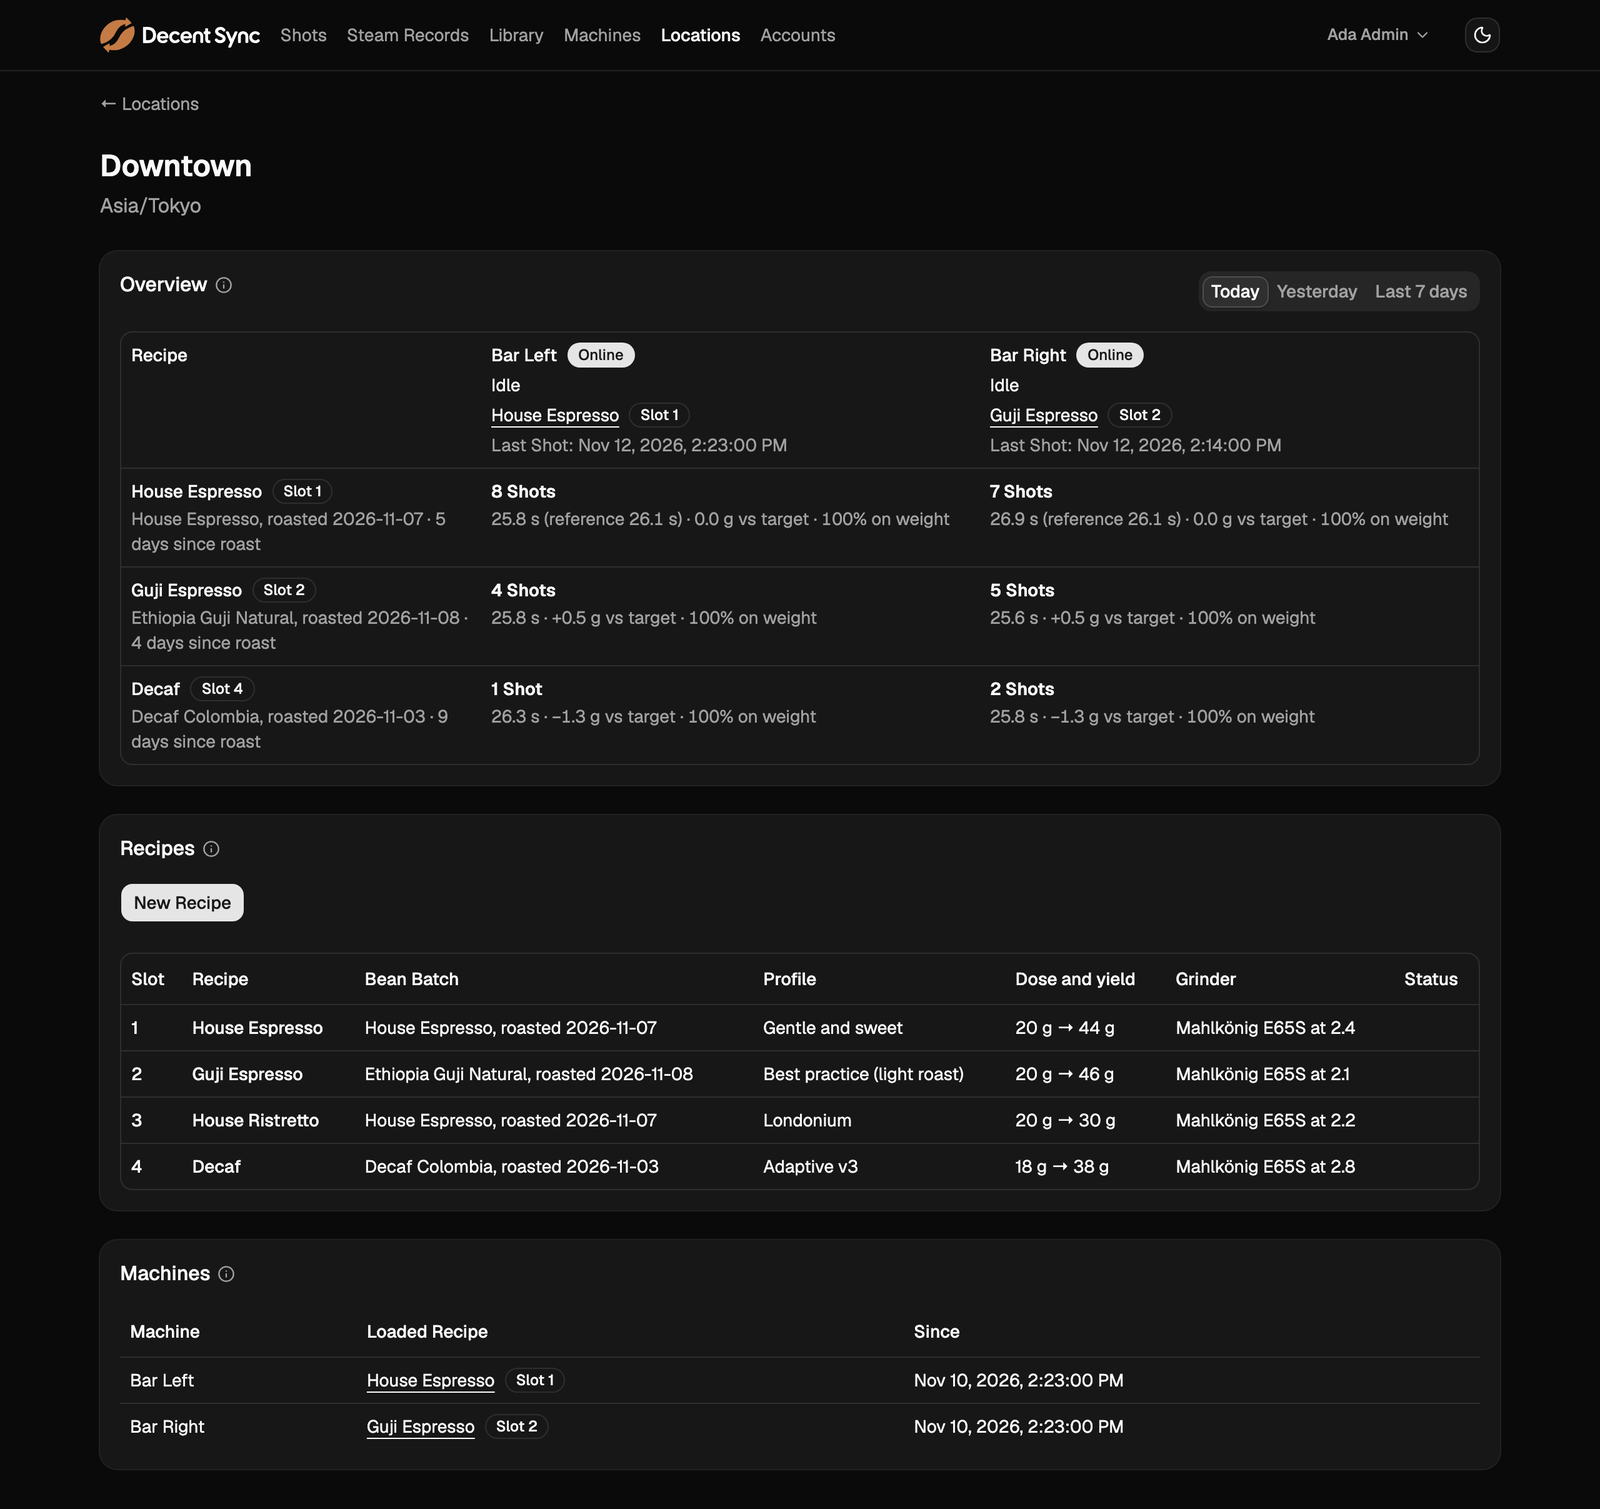
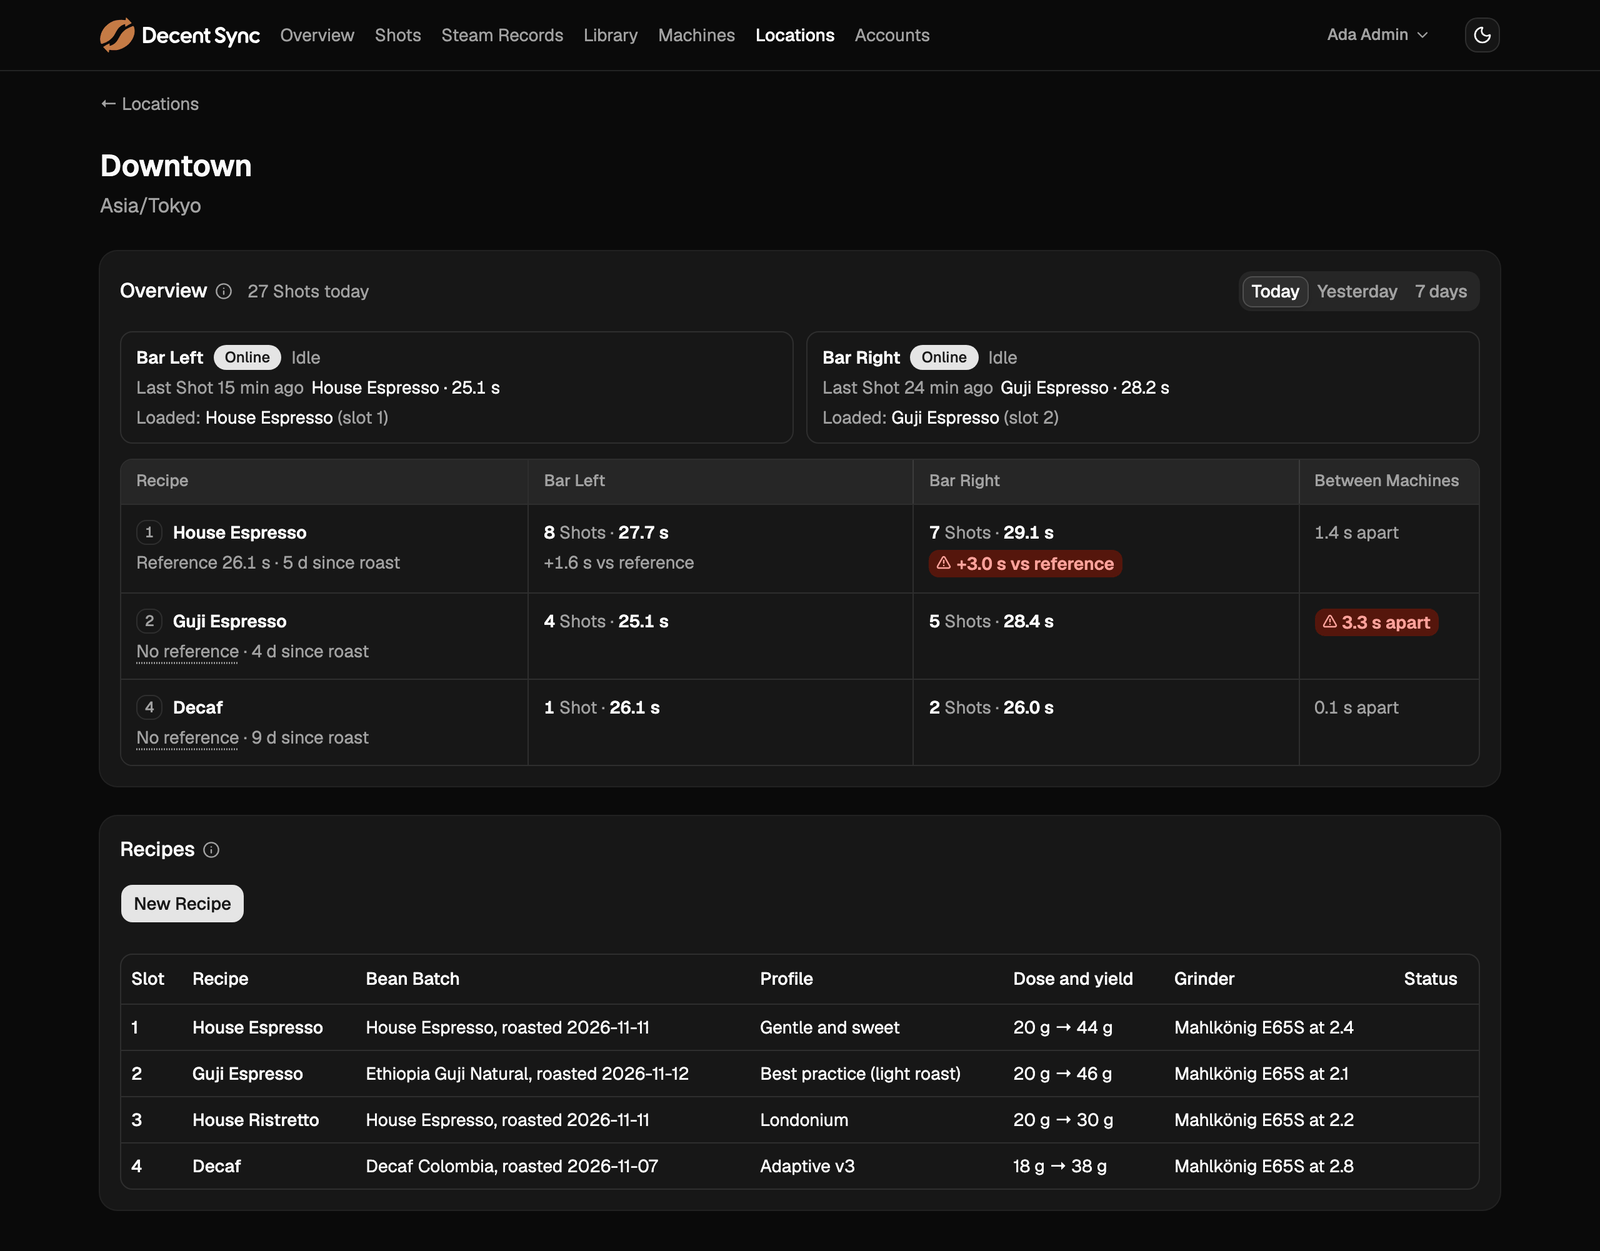
Regenerate the README's Overview and Location images, and name #559 (#543)
The images show the redrawn Overview: status cards, a marked cell and a
Recipe out of spec between Machines. Made with the owner's tool outside
this repo, from its anonymized sample. The comment and the Shots notes
name #559, the issue that removes stoppedOnWeight.

diff --git a/server/src/shots/summary.ts b/server/src/shots/summary.ts
@@ -138,8 +138,7 @@ export type NumberName = (typeof NUMBERS)[number];
 /**
  * The numbers a summary gives where none are named: with the count, what the
  * Overview reads (#465, #543). `stoppedOnWeight` stays among them for the
- * latest release's pages, which read it (ADR-0025), until a later release
- * removes it.
+ * latest release's pages, which read it (ADR-0025), until #559 removes it.
  */
 export const DEFAULT_NUMBERS: readonly NumberName[] = ["yieldAgainstTarget", "duration", "stoppedOnWeight", "stoppedAtTarget"];
 

diff --git a/docs/SHOTS.md b/docs/SHOTS.md
@@ -1287,7 +1287,7 @@ Machines and each Shot within spec or out of spec against three margins
   summary gives `yieldAgainstTarget`, `duration`, `stoppedOnWeight` and
   `stoppedAtTarget`: with the count, what the Overview reads (#465, #543).
   `stoppedOnWeight` stays among them for the latest release's pages, which
-  read it (ADR-0025), until a later release removes it. A group gives those named,
+  read it (ADR-0025), until #559 removes it. A group gives those named,
   in the order below, and only those are read, so a number read from each
   Shot's record costs only a summary that asks for it.
   - `yieldAgainstTarget`: the yield weighed less the target yield
